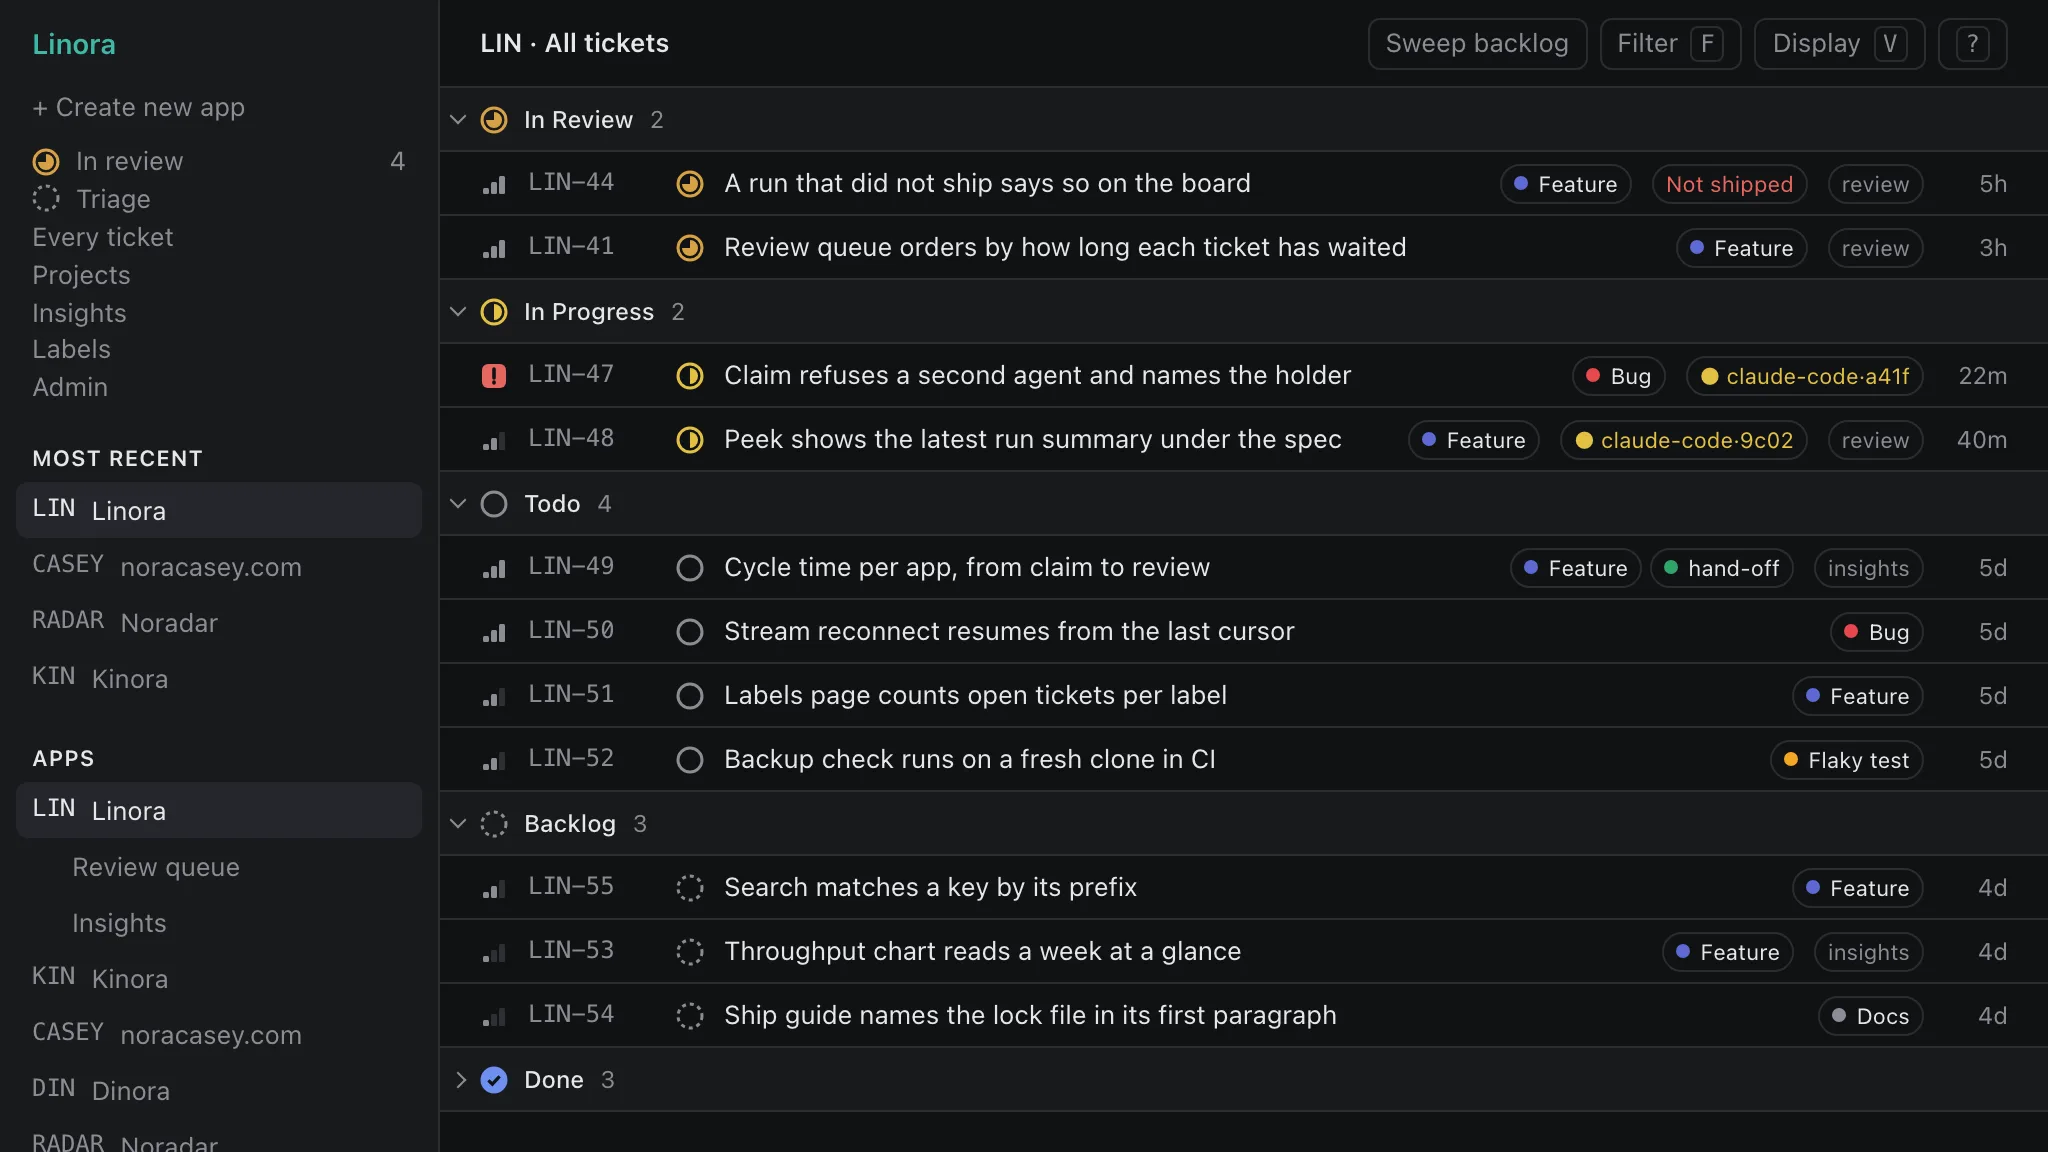
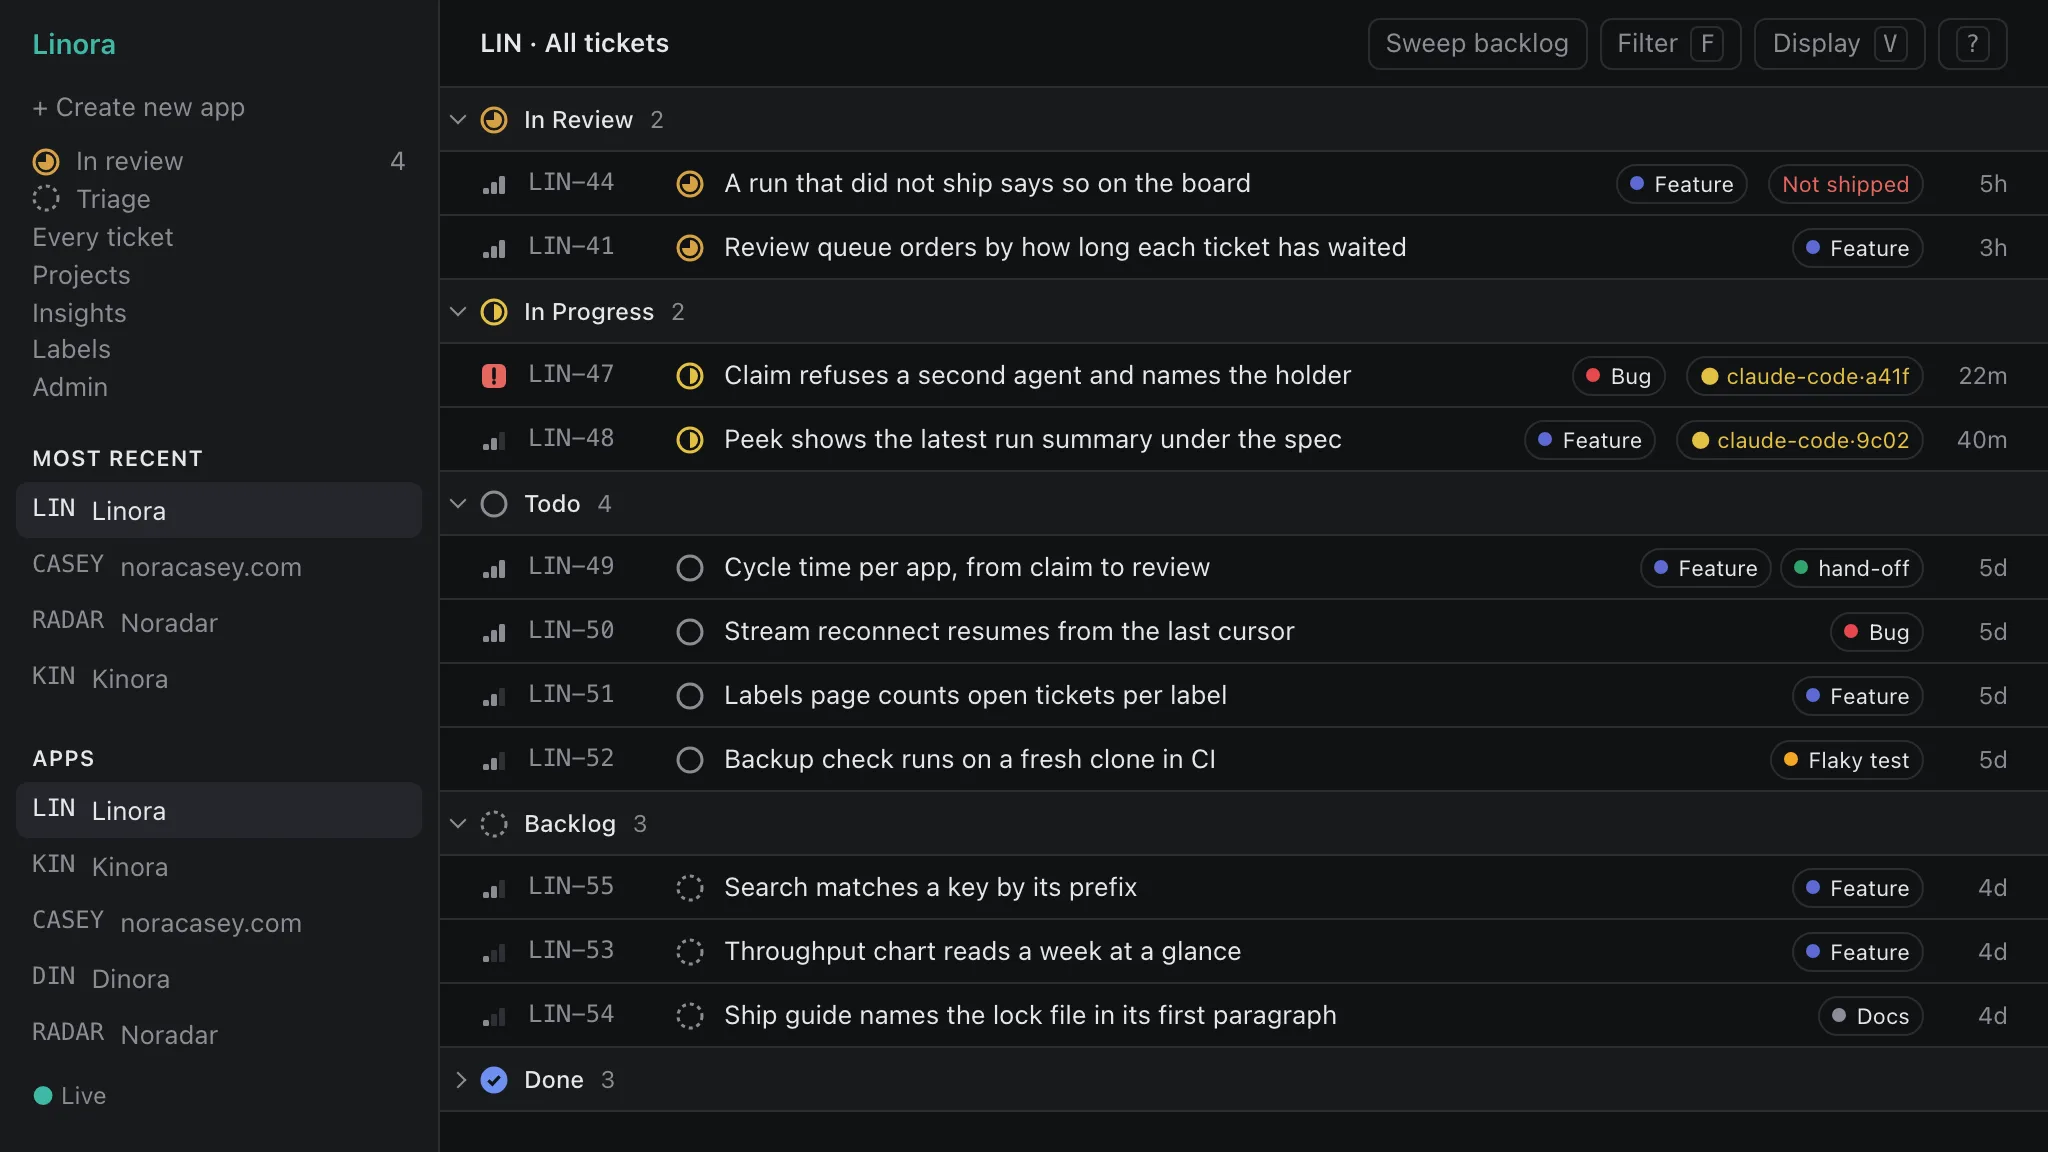
Linora's screenshots show no projects, because the real board has none
The driver invented two projects, Review queue and Insights, which put a
sub-nav under the Linora app and a project tag on four rows. Nora's
Linora has no projects (0 in the record, 17 Nov 2026), so the shots
showed part of the page she has never seen. Invented rows stand in for
private ones; they should not add parts of the page that are not there.

Retaken at CASEY-27's sizes. The board reaches the Live footer again, so
its alt text says so.

Runway: CASEY-28

diff --git a/src/pages/LinoraPage.tsx b/src/pages/LinoraPage.tsx
@@ -108,7 +108,7 @@ export function LinoraPage(): React.ReactElement {
       <ShowcaseGame width="100%" thirdParty={false}>
         <CaseStudyMedia
           image={linoraBoard}
-          alt="Linora in its dark theme, on the tickets of one app, Linora itself. A sidebar lists the review queue with a count of 4, triage, every ticket, projects, insights, labels and admin, then the apps. The list is grouped by status: two in review, one marked Not shipped; two in progress, each held by a named agent session; four to do; three in the backlog; and three done, folded. Each row has a priority, a key, a title, labels and an age."
+          alt="Linora in its dark theme, on the tickets of one app, Linora itself. A sidebar lists the review queue with a count of 4, triage, every ticket, projects, insights, labels and admin, then the apps. The list is grouped by status: two in review, one marked Not shipped; two in progress, each held by a named agent session; four to do; three in the backlog; and three done, folded. Each row has a priority, a key, a title, labels and an age. The sidebar ends on Live."
           caption="An app's tickets, grouped by status. The page is the real one, driven by a script; the rows are invented, because the real board holds private work."
         />
       </ShowcaseGame>
